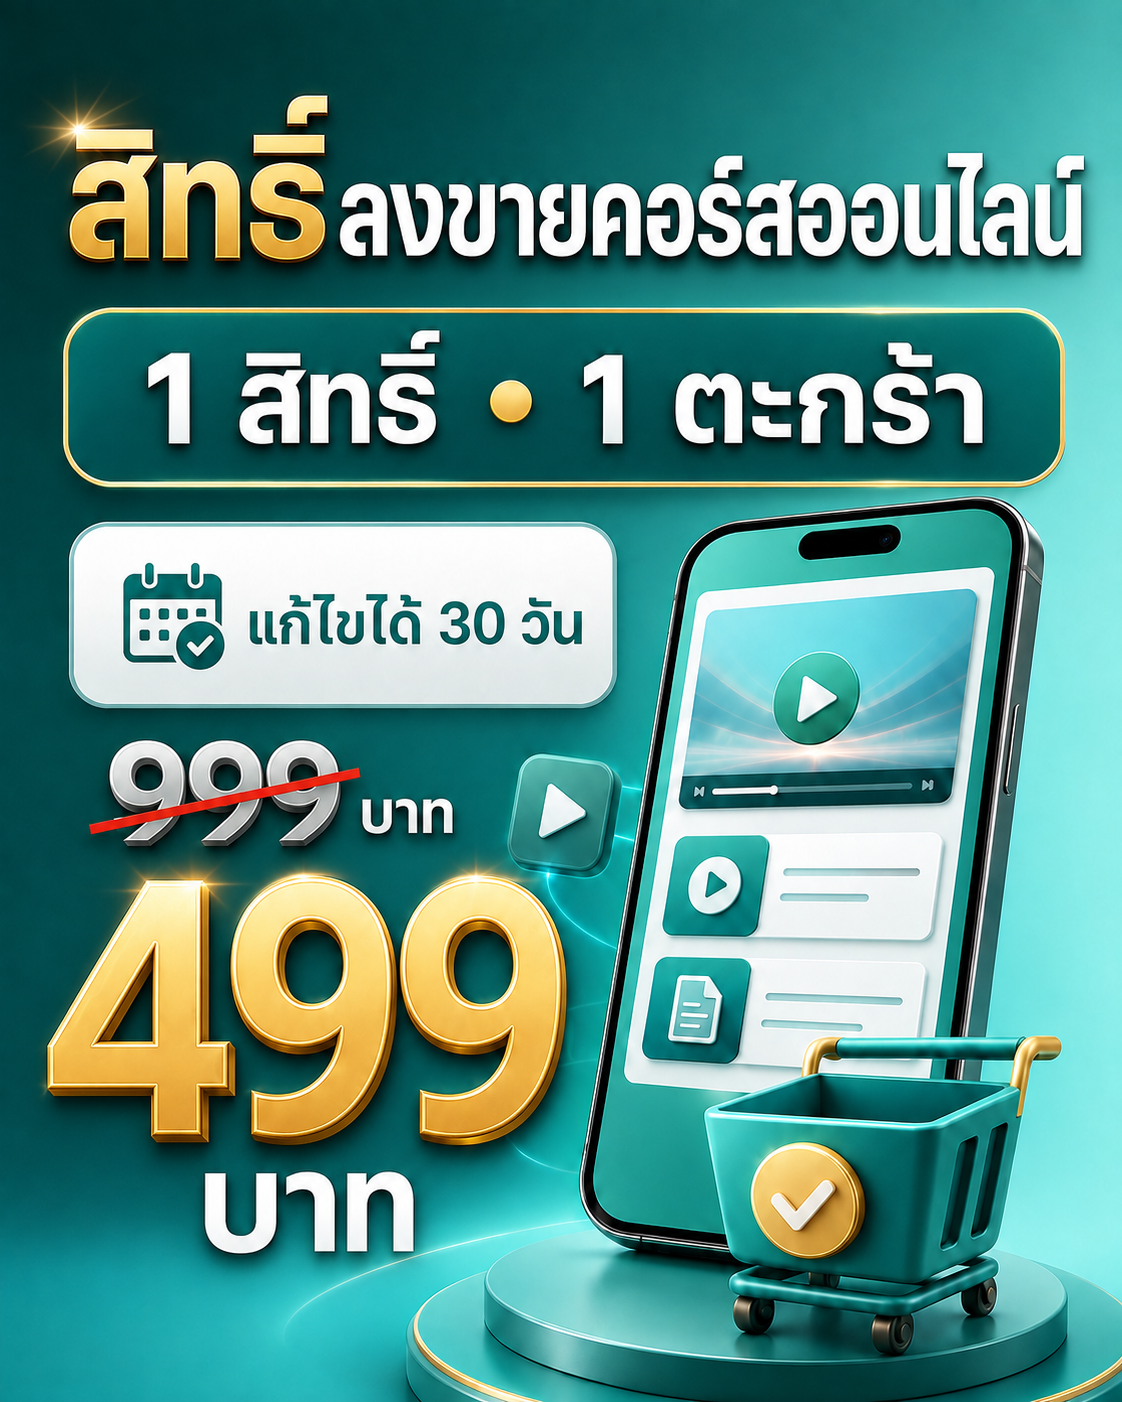
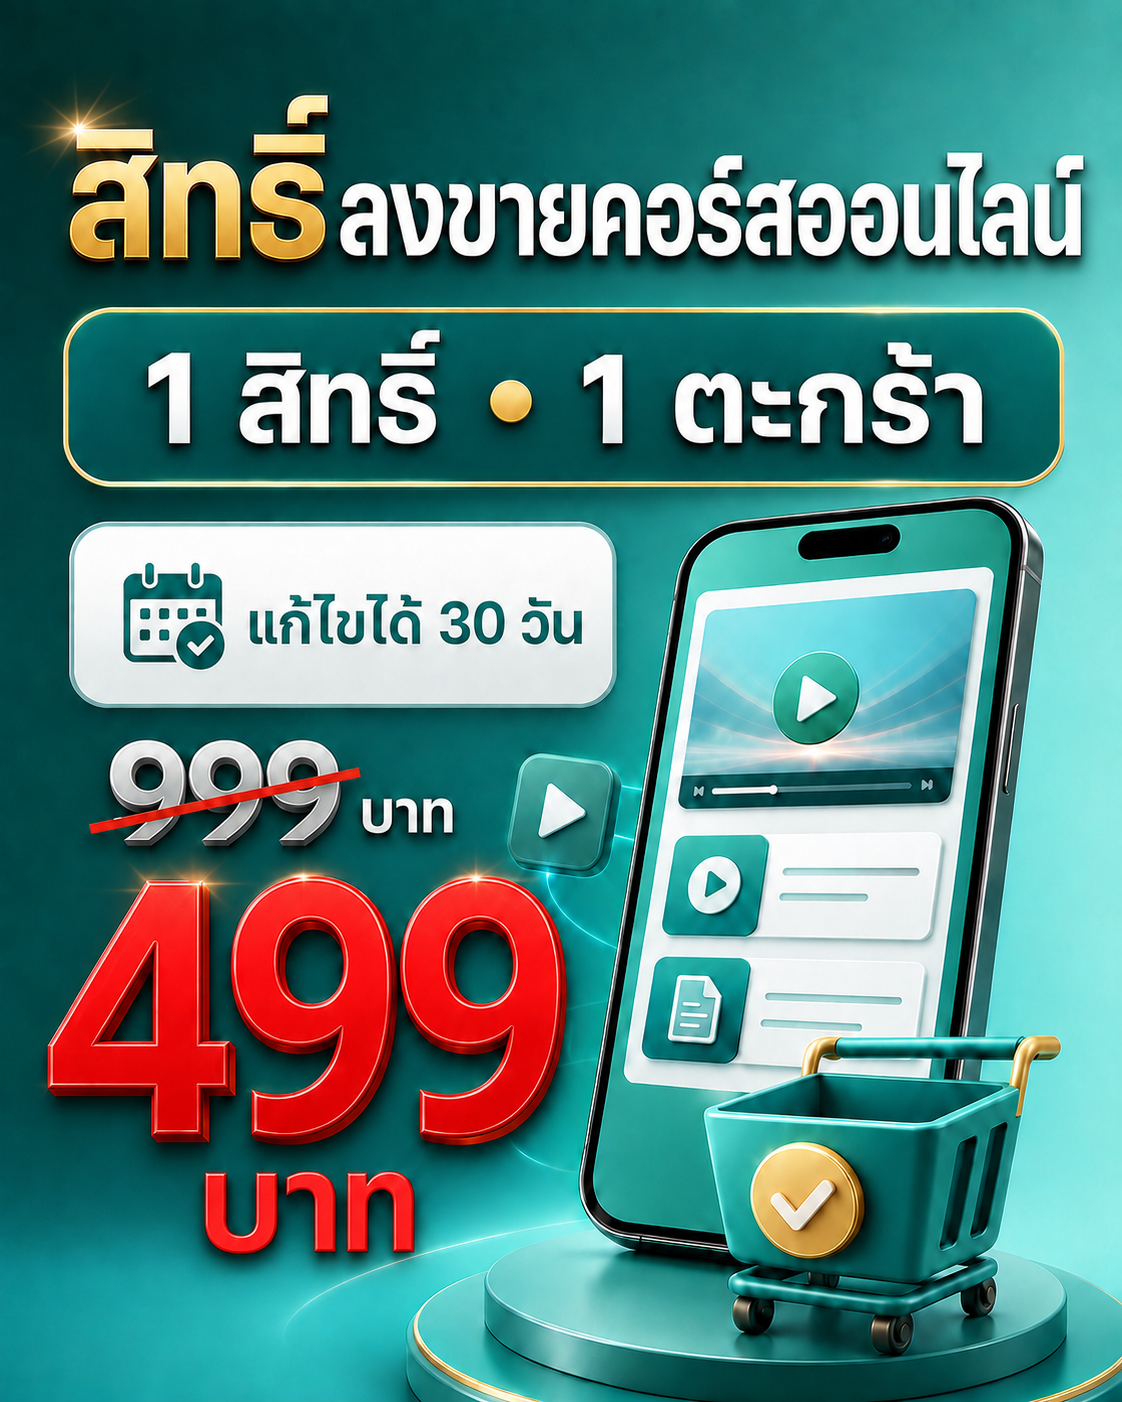
0.14.12

diff --git a/visiond-mvp/public/index.html b/visiond-mvp/public/index.html
@@ -50,7 +50,7 @@
     .vd-info{display:block!important;padding:14px 12px!important;min-height:130px!important;box-sizing:border-box!important}.vd-info small{font:10px monospace!important}.vd-info h3{font-size:14px!important;line-height:1.4!important;margin:8px 0!important}.vd-info p{font-size:11px!important;margin:0 0 12px!important}
     .vd-bottom{display:flex!important;justify-content:space-between!important;align-items:center!important;border-top:1px solid #d2d9db!important;padding-top:10px!important}.vd-bottom b{font-size:17px!important}.vd-bottom a{padding:7px 9px!important;background:#0a5b57!important;color:#fff!important;font-size:10px!important;font-weight:900!important}
     .home-purchase-actions{display:flex;align-items:center;gap:12px;flex-wrap:wrap}.home-purchase-actions .primary{display:inline-flex;align-items:center;justify-content:center;min-height:48px;box-sizing:border-box}
-    .course-owner-feature{max-width:1180px;margin:48px auto;padding:34px;display:grid;grid-template-columns:minmax(240px,360px) 1fr;gap:38px;align-items:center;border:2px solid #e3bd57;border-radius:30px;background:linear-gradient(135deg,#053f3c 0%,#087d77 56%,#10aaa4 100%);box-shadow:0 24px 60px rgba(4,69,65,.24);color:#fff;box-sizing:border-box}.course-owner-cover{display:block;position:relative;padding:10px;border:2px solid rgba(255,220,125,.8);border-radius:24px;background:rgba(255,255,255,.1)}.course-owner-cover img{display:block;width:100%;max-height:500px;object-fit:contain;border-radius:16px;background:#fff}.course-owner-copy .eyebrow{color:#ffdd7e}.course-owner-copy h2{margin:6px 0 14px;font-size:clamp(32px,4vw,52px);line-height:1.12;color:#fff}.course-owner-profit{display:inline-flex;align-items:center;margin:0 0 18px;padding:12px 20px;border:2px solid #ffe08a;border-radius:999px;background:linear-gradient(135deg,#ffd45f,#fff1ae);color:#064f4b;font-size:clamp(22px,3vw,34px);font-weight:1000;line-height:1.15;box-shadow:0 10px 28px rgba(0,0,0,.22);transform:rotate(-1deg)}.course-owner-copy>p{max-width:680px;font-size:18px;line-height:1.75;color:#eafffd}.course-owner-points{display:grid;grid-template-columns:repeat(2,minmax(0,1fr));gap:10px;margin:22px 0}.course-owner-points span{padding:12px 14px;border:1px solid rgba(255,255,255,.25);border-radius:14px;background:rgba(255,255,255,.1);font-weight:800}.course-owner-price{display:flex;align-items:baseline;gap:14px;flex-wrap:wrap;margin-top:20px}.course-owner-price del{font-size:23px;color:#c9dedc}.course-owner-price strong{font-size:42px;color:#ffdc75}.course-owner-actions{display:flex;gap:12px;flex-wrap:wrap;margin-top:18px}.course-owner-actions button,.course-owner-actions a{display:inline-flex;align-items:center;justify-content:center;min-height:52px;padding:0 22px;border:0;border-radius:13px;font:inherit;font-weight:1000;cursor:pointer}.course-owner-cart-button{background:#ffda70;color:#064f4b}.course-owner-view-button{background:#fff;color:#086b66!important}.course-owner-no-promo{display:block;margin-top:12px;color:#ffe7a1;font-weight:900}
+    .course-owner-feature{max-width:1180px;margin:48px auto;padding:34px;display:grid;grid-template-columns:minmax(240px,360px) 1fr;gap:38px;align-items:center;border:2px solid #e3bd57;border-radius:30px;background:linear-gradient(135deg,#053f3c 0%,#087d77 56%,#10aaa4 100%);box-shadow:0 24px 60px rgba(4,69,65,.24);color:#fff;box-sizing:border-box}.course-owner-cover{display:block;position:relative;padding:10px;border:2px solid rgba(255,220,125,.8);border-radius:24px;background:rgba(255,255,255,.1)}.course-owner-cover img{display:block;width:100%;max-height:500px;object-fit:contain;border-radius:16px;background:#fff}.course-owner-copy .eyebrow{color:#ffdd7e}.course-owner-copy h2{margin:6px 0 14px;font-size:clamp(32px,4vw,52px);line-height:1.12;color:#fff}.course-owner-profit{display:inline-flex;align-items:center;margin:0 0 18px;padding:12px 20px;border:2px solid #ffe08a;border-radius:999px;background:linear-gradient(135deg,#ffd45f,#fff1ae);color:#064f4b;font-size:clamp(22px,3vw,34px);font-weight:1000;line-height:1.15;box-shadow:0 10px 28px rgba(0,0,0,.22);transform:rotate(-1deg)}.course-owner-copy>p{max-width:680px;font-size:18px;line-height:1.75;color:#eafffd}.course-owner-points{display:grid;grid-template-columns:repeat(2,minmax(0,1fr));gap:10px;margin:22px 0}.course-owner-points span{padding:12px 14px;border:1px solid rgba(255,255,255,.25);border-radius:14px;background:rgba(255,255,255,.1);font-weight:800}.course-owner-price{display:flex;align-items:baseline;gap:14px;flex-wrap:wrap;margin-top:20px}.course-owner-price del{font-size:23px;color:#c9dedc}.course-owner-price strong{font-size:42px;color:#ffdc75}.course-owner-price strong span{color:#ff2028;text-shadow:0 3px 12px rgba(95,0,0,.28)}.course-owner-actions{display:flex;gap:12px;flex-wrap:wrap;margin-top:18px}.course-owner-actions button,.course-owner-actions a{display:inline-flex;align-items:center;justify-content:center;min-height:52px;padding:0 22px;border:0;border-radius:13px;font:inherit;font-weight:1000;cursor:pointer}.course-owner-cart-button{background:#ffda70;color:#064f4b}.course-owner-view-button{background:#fff;color:#086b66!important}.course-owner-no-promo{display:block;margin-top:12px;color:#ffe7a1;font-weight:900}
     .home-contact-section{max-width:1180px;margin:20px auto 70px;padding:38px;border-radius:28px;background:#eafffd;border:1px solid #8bd3ce;text-align:center;box-sizing:border-box}.home-contact-section h2{margin:6px 0 10px;font-size:34px}.home-contact-section p{color:#496d6a}.home-contact-actions{display:flex;justify-content:center;gap:12px;flex-wrap:wrap;margin-top:22px}.home-contact-actions a{display:inline-flex;align-items:center;justify-content:center;min-height:50px;padding:0 22px;border-radius:13px;font-weight:900}.home-contact-actions .line{background:#06c755;color:#fff}.home-contact-actions .facebook{background:#0866ff;color:#fff}.home-contact-actions .support{border:2px solid #087d77;color:#087d77;background:#fff}
     @media(max-width:900px){.vd-grid{grid-template-columns:repeat(2,250px)!important}.vd-card{width:250px!important}.vd-cover,.vd-cover img{width:248px!important;max-width:248px!important;height:300px!important;max-height:300px!important}}
     @media(max-width:760px){.course-owner-feature{margin:24px 12px;padding:20px;grid-template-columns:1fr;gap:22px}.course-owner-cover{max-width:300px;margin:auto}.course-owner-points{grid-template-columns:1fr}.course-owner-actions{display:grid;grid-template-columns:1fr 1fr}.course-owner-actions button,.course-owner-actions a{width:100%;box-sizing:border-box}.home-contact-section{margin:20px 12px 50px;padding:26px 18px}}
@@ -113,14 +113,14 @@
   </section>
 
   <section class="course-owner-feature" aria-labelledby="courseOwnerTitle">
-    <a class="course-owner-cover" href="/product.html?slug=course-selling-rights"><img id="courseOwnerCover" src="/assets/course-rights-999-to-499-online-mobile.png" alt="สิทธิ์ลงขายคอร์สออนไลน์ ราคาเต็ม 999 บาท เหลือ 499 บาท"></a>
+    <a class="course-owner-cover" href="/product.html?slug=course-selling-rights"><img id="courseOwnerCover" src="/assets/course-rights-999-to-499-online-mobile.png?v=01412" alt="สิทธิ์ลงขายคอร์สออนไลน์ ราคาเต็ม 999 บาท เหลือ 499 บาท"></a>
     <div class="course-owner-copy">
       <p class="eyebrow">พื้นที่สำหรับเจ้าของคอร์สโดยเฉพาะ</p>
       <h2 id="courseOwnerTitle">สิทธิ์ลงขายคอร์สออนไลน์</h2>
       <strong class="course-owner-profit">รับยอดขายเต็ม ไม่หัก %</strong>
       <p>เปิดพื้นที่ขายคอร์สของคุณบน VisionD จัดการเนื้อหา ตั้งราคา และรับเงินผ่านช่องทางของเจ้าของคอร์สเอง โดยไม่ปะปนกับคอร์สสำหรับผู้เรียน</p>
       <div class="course-owner-points"><span>1 สิทธิ์ = 1 ตะกร้าคอร์ส</span><span>แก้ไขเนื้อหาได้ 30 วัน</span><span>เพิ่มวิดีโอและเอกสารราย EP</span><span>เงินเข้าช่องทางของเจ้าของคอร์ส</span></div>
-      <div class="course-owner-price"><del id="courseOwnerOriginalPrice">ราคาเต็ม 999 บาท</del><strong id="courseOwnerPrice">ลดเหลือ 499 บาท</strong></div>
+      <div class="course-owner-price"><del id="courseOwnerOriginalPrice">ราคาเต็ม 999 บาท</del><strong id="courseOwnerPrice">ลดเหลือ <span>499 บาท</span></strong></div>
       <div class="course-owner-actions"><button id="courseOwnerAddCart" class="course-owner-cart-button" type="button">ใส่รถเข็น</button><a class="course-owner-view-button" href="/product.html?slug=course-selling-rights">ดูสินค้า</a></div>
       <small class="course-owner-no-promo">หมายเหตุ: ตะกร้านี้ไม่ร่วมโปรส่วนลดกับตะกร้าใด ๆ</small>
     </div>
@@ -208,7 +208,7 @@
 <script src="/app.js?v=01406"></script>
 <link rel="stylesheet" href="/cart-catalog.css?v=01141">
 <script src="/catalog-sync.js?v=01411"></script>
-<script src="/home-course-rights.js?v=013940"></script>
+<script src="/home-course-rights.js?v=01412"></script>
 <script src="/course-owner-badge.js?v=01366"></script>
 <script src="/analytics.js?v=01194"></script>
 <script src="/promo-banner.js?v=013160"></script><script src="/facebook-chat.js?v=01380"></script></body>

diff --git a/visiond-mvp/public/home-course-rights.js b/visiond-mvp/public/home-course-rights.js
@@ -10,7 +10,7 @@
       const price = document.getElementById("courseOwnerPrice");
       const originalPrice = document.getElementById("courseOwnerOriginalPrice");
       const cover = document.getElementById("courseOwnerCover");
-      if (price) price.textContent = `ลดเหลือ ${formatPrice(product.sale_price ?? product.price)}`;
+      if (price) price.innerHTML = `ลดเหลือ <span>${formatPrice(product.sale_price ?? product.price)}</span>`;
       if (originalPrice) originalPrice.textContent = `ราคาเต็ม ${formatPrice(product.original_price ?? 99900)}`;
       if (cover && product.cover_url) cover.src = product.cover_url;
       const addButton = document.getElementById("courseOwnerAddCart");
